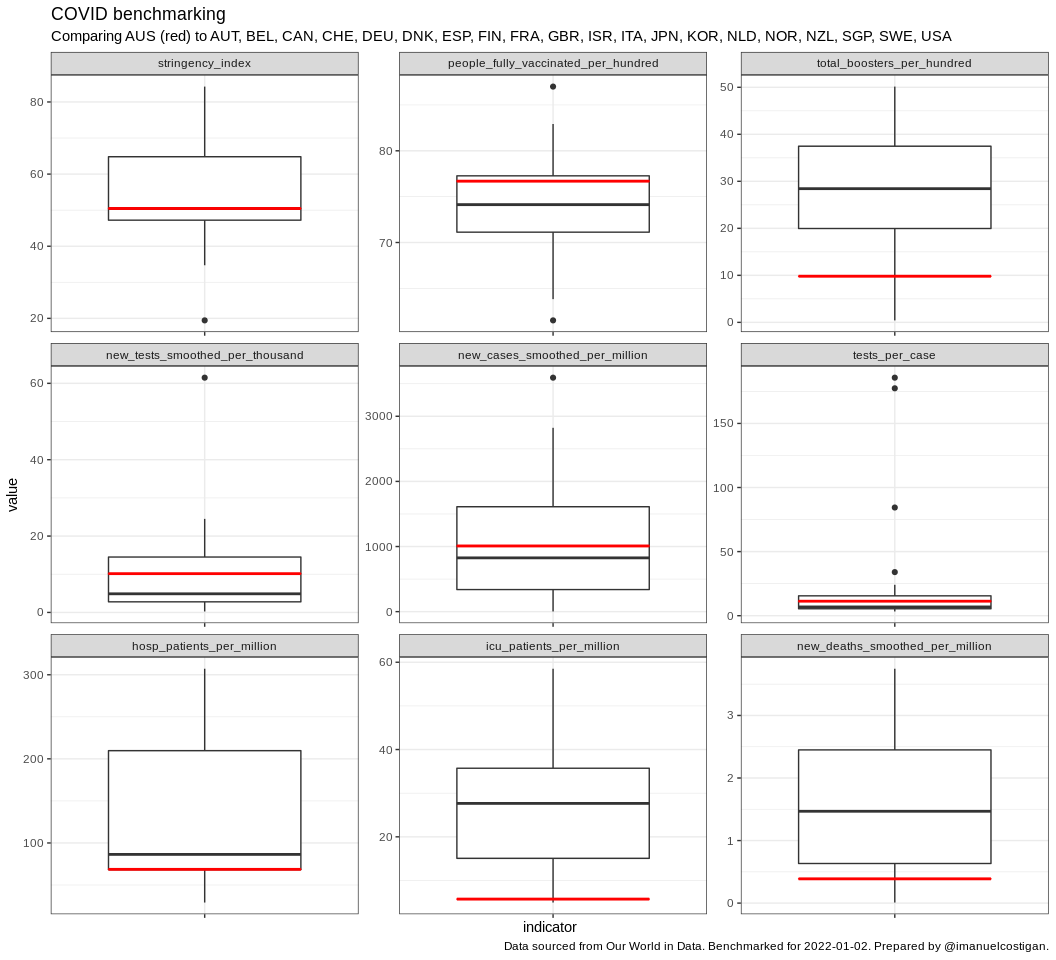
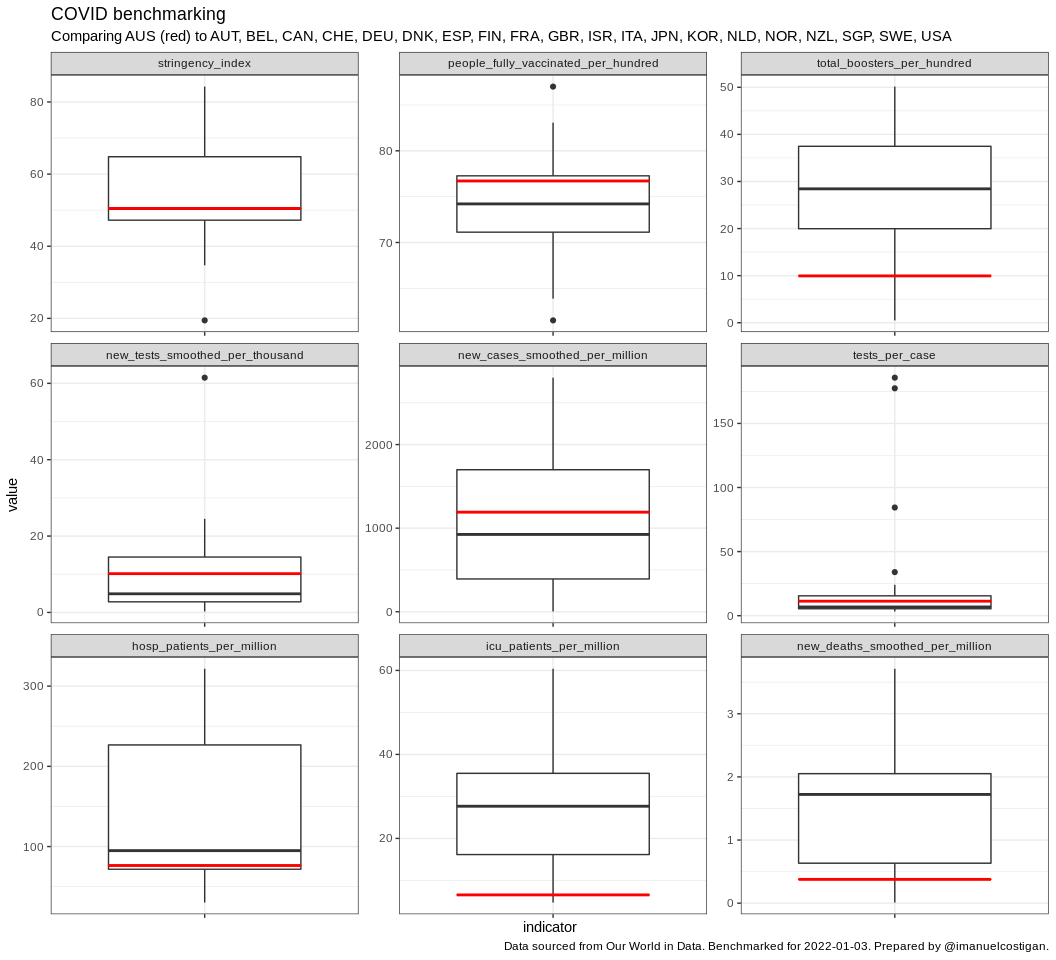
Re-build Rmarkdown files

diff --git a/README.md b/README.md
@@ -113,7 +113,7 @@ We do this on the penultimate date that is published by OWID to ensure
 data is available across all countries.
 
 ``` r
-benchmark_date <- (owid_long_tbl |> pull(date) |> max(na.rm = TRUE)) - 1
+benchmark_date <- (owid_long_tbl |> pull(date) |> max(na.rm = TRUE))
 owid_last_snap <-
   owid_long_tbl |>
   filter(date == benchmark_date)
